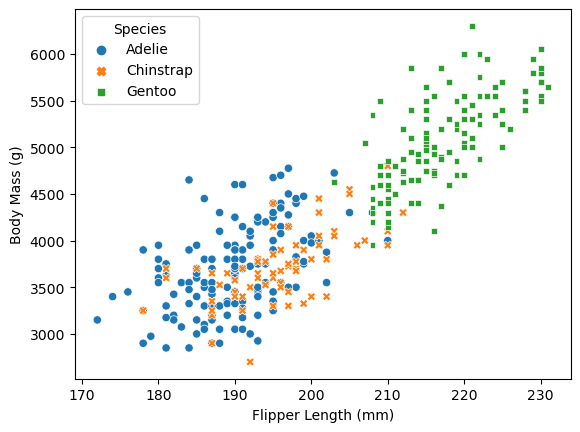
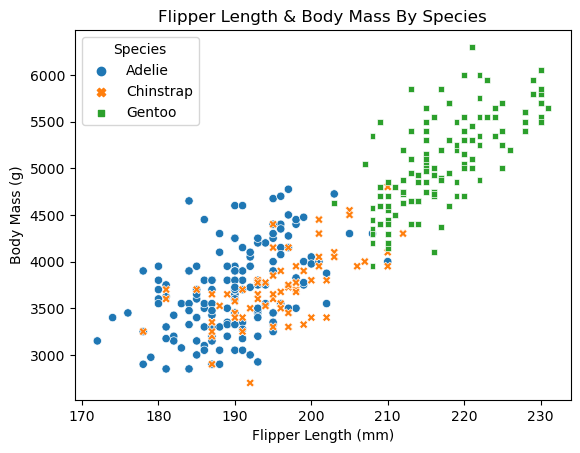
Built site for gh-pages

diff --git a/posts/bruin/index.html b/posts/bruin/index.html
@@ -195,7 +195,7 @@ pre > code.sourceCode > span > a:first-child::before { text-decoration: underlin
 <section id="importing-libraries" class="level3">
 <h3 class="anchored" data-anchor-id="importing-libraries">Importing Libraries</h3>
 <p>First, we want to import <strong>pandas</strong> for data manipulation and <strong>seaborn</strong> for visualization.</p>
-<div id="abd88506" class="cell" data-execution_count="19">
+<div id="abd88506" class="cell" data-execution_count="2">
 <div class="sourceCode cell-code" id="cb1"><pre class="sourceCode python code-with-copy"><code class="sourceCode python"><span id="cb1-1"><a href="#cb1-1" aria-hidden="true" tabindex="-1"></a><span class="im">import</span> pandas <span class="im">as</span> pd</span>
 <span id="cb1-2"><a href="#cb1-2" aria-hidden="true" tabindex="-1"></a><span class="im">import</span> seaborn <span class="im">as</span> sns</span></code><button title="Copy to Clipboard" class="code-copy-button"><i class="bi"></i></button></pre></div>
 </div>
@@ -203,7 +203,7 @@ pre > code.sourceCode > span > a:first-child::before { text-decoration: underlin
 <section id="loading-the-data" class="level3">
 <h3 class="anchored" data-anchor-id="loading-the-data">Loading the Data</h3>
 <p>Using pandas, we can load in the <strong>Palmers Penguins dataset</strong> with URL below.</p>
-<div id="d8f388f5" class="cell" data-execution_count="1">
+<div id="d8f388f5" class="cell" data-execution_count="3">
 <div class="sourceCode cell-code" id="cb2"><pre class="sourceCode python code-with-copy"><code class="sourceCode python"><span id="cb2-1"><a href="#cb2-1" aria-hidden="true" tabindex="-1"></a>url <span class="op">=</span> <span class="st">"https://raw.githubusercontent.com/PhilChodrow/PIC16B/master/datasets/palmer_penguins.csv"</span></span>
 <span id="cb2-2"><a href="#cb2-2" aria-hidden="true" tabindex="-1"></a>penguins <span class="op">=</span> pd.read_csv(url)</span></code><button title="Copy to Clipboard" class="code-copy-button"><i class="bi"></i></button></pre></div>
 </div>
@@ -211,7 +211,7 @@ pre > code.sourceCode > span > a:first-child::before { text-decoration: underlin
 <section id="subsetting-the-data" class="level3">
 <h3 class="anchored" data-anchor-id="subsetting-the-data">Subsetting the Data</h3>
 <p>Using pandas, we can subset the dataframe so that we have only the necessary components. In this case, we only need the columns: <strong>Species</strong>, <strong>Flipper Length (mm)</strong>, and <strong>Body Mass (g)</strong></p>
-<div id="9cae10b0" class="cell" data-execution_count="22">
+<div id="9cae10b0" class="cell" data-execution_count="4">
 <div class="sourceCode cell-code" id="cb3"><pre class="sourceCode python code-with-copy"><code class="sourceCode python"><span id="cb3-1"><a href="#cb3-1" aria-hidden="true" tabindex="-1"></a>df <span class="op">=</span> penguins[[<span class="st">"Species"</span>, <span class="st">"Flipper Length (mm)"</span>, <span class="st">"Body Mass (g)"</span>]]</span></code><button title="Copy to Clipboard" class="code-copy-button"><i class="bi"></i></button></pre></div>
 </div>
 </section>
@@ -220,14 +220,15 @@ pre > code.sourceCode > span > a:first-child::before { text-decoration: underlin
 <p>Using seaborn, we can plot the scatterplot easily by using <strong>seaborn.scatterplot</strong> and setting “Flipper Length (mm)” as the x-axis and “Body Mass (g)” as the y-axis.<br>
 In order to group the points by species, we and differentiate the points through shape and color by setting the parameters <strong>style</strong> and <strong>hue</strong> to “Species.”<br>
 Because the full species names are unnecessarily long, we can change the labels of the legend by accessing it through the code <strong>scatter.legend_</strong> and setting new labels as shown below.</p>
-<div id="556da33d" class="cell" data-execution_count="31">
+<div id="556da33d" class="cell" data-execution_count="5">
 <div class="sourceCode cell-code" id="cb4"><pre class="sourceCode python code-with-copy"><code class="sourceCode python"><span id="cb4-1"><a href="#cb4-1" aria-hidden="true" tabindex="-1"></a>scatter <span class="op">=</span> sns.scatterplot(x<span class="op">=</span><span class="st">"Flipper Length (mm)"</span>, y<span class="op">=</span><span class="st">"Body Mass (g)"</span>, style<span class="op">=</span><span class="st">"Species"</span>, hue<span class="op">=</span><span class="st">"Species"</span>, data<span class="op">=</span>df)</span>
-<span id="cb4-2"><a href="#cb4-2" aria-hidden="true" tabindex="-1"></a></span>
-<span id="cb4-3"><a href="#cb4-3" aria-hidden="true" tabindex="-1"></a><span class="co"># Access Legend</span></span>
-<span id="cb4-4"><a href="#cb4-4" aria-hidden="true" tabindex="-1"></a>legend <span class="op">=</span> scatter.legend_</span>
-<span id="cb4-5"><a href="#cb4-5" aria-hidden="true" tabindex="-1"></a>new_labels <span class="op">=</span> [<span class="st">'Adelie'</span>, <span class="st">'Chinstrap'</span>, <span class="st">'Gentoo'</span>]</span>
-<span id="cb4-6"><a href="#cb4-6" aria-hidden="true" tabindex="-1"></a>legend.set_title(<span class="st">'Species'</span>)</span>
-<span id="cb4-7"><a href="#cb4-7" aria-hidden="true" tabindex="-1"></a><span class="cf">for</span> t, l <span class="kw">in</span> <span class="bu">zip</span>(legend.texts, new_labels): t.set_text(l)</span></code><button title="Copy to Clipboard" class="code-copy-button"><i class="bi"></i></button></pre></div>
+<span id="cb4-2"><a href="#cb4-2" aria-hidden="true" tabindex="-1"></a>scatter.<span class="bu">set</span>(title<span class="op">=</span><span class="st">'Flipper Length &amp; Body Mass By Species'</span>) <span class="co"># set scatterplot title</span></span>
+<span id="cb4-3"><a href="#cb4-3" aria-hidden="true" tabindex="-1"></a></span>
+<span id="cb4-4"><a href="#cb4-4" aria-hidden="true" tabindex="-1"></a><span class="co"># Access Legend</span></span>
+<span id="cb4-5"><a href="#cb4-5" aria-hidden="true" tabindex="-1"></a>legend <span class="op">=</span> scatter.legend_</span>
+<span id="cb4-6"><a href="#cb4-6" aria-hidden="true" tabindex="-1"></a>new_labels <span class="op">=</span> [<span class="st">'Adelie'</span>, <span class="st">'Chinstrap'</span>, <span class="st">'Gentoo'</span>]</span>
+<span id="cb4-7"><a href="#cb4-7" aria-hidden="true" tabindex="-1"></a>legend.set_title(<span class="st">'Species'</span>) <span class="co"># set legend title</span></span>
+<span id="cb4-8"><a href="#cb4-8" aria-hidden="true" tabindex="-1"></a><span class="cf">for</span> t, l <span class="kw">in</span> <span class="bu">zip</span>(legend.texts, new_labels): t.set_text(l) <span class="co"># add in the new labels</span></span></code><button title="Copy to Clipboard" class="code-copy-button"><i class="bi"></i></button></pre></div>
 <div class="cell-output cell-output-display">
 <div>
 <figure class="figure">

diff --git a/index.html b/index.html
@@ -205,7 +205,7 @@ window.Quarto = {
 
 <div class="quarto-listing quarto-listing-container-default" id="listing-listing">
 <div class="list quarto-listing-default">
-<div class="quarto-post image-right" data-index="0" data-categories="Week 0,Homework" data-listing-date-sort="1704700800000" data-listing-file-modified-sort="1704768602531" data-listing-date-modified-sort="NaN" data-listing-reading-time-sort="1" data-listing-word-count-sort="177">
+<div class="quarto-post image-right" data-index="0" data-categories="Week 0,Homework" data-listing-date-sort="1704700800000" data-listing-file-modified-sort="1704774505312" data-listing-date-modified-sort="NaN" data-listing-reading-time-sort="1" data-listing-word-count-sort="177">
 <div class="thumbnail">
 <p><a href="./posts/bruin/index.html" class="no-external"></a></p><a href="./posts/bruin/index.html" class="no-external">
 <p class="card-img-top"><img src="posts/bruin/index_files/figure-html/cell-5-output-1.png"  class="thumbnail-image card-img"/></p>
